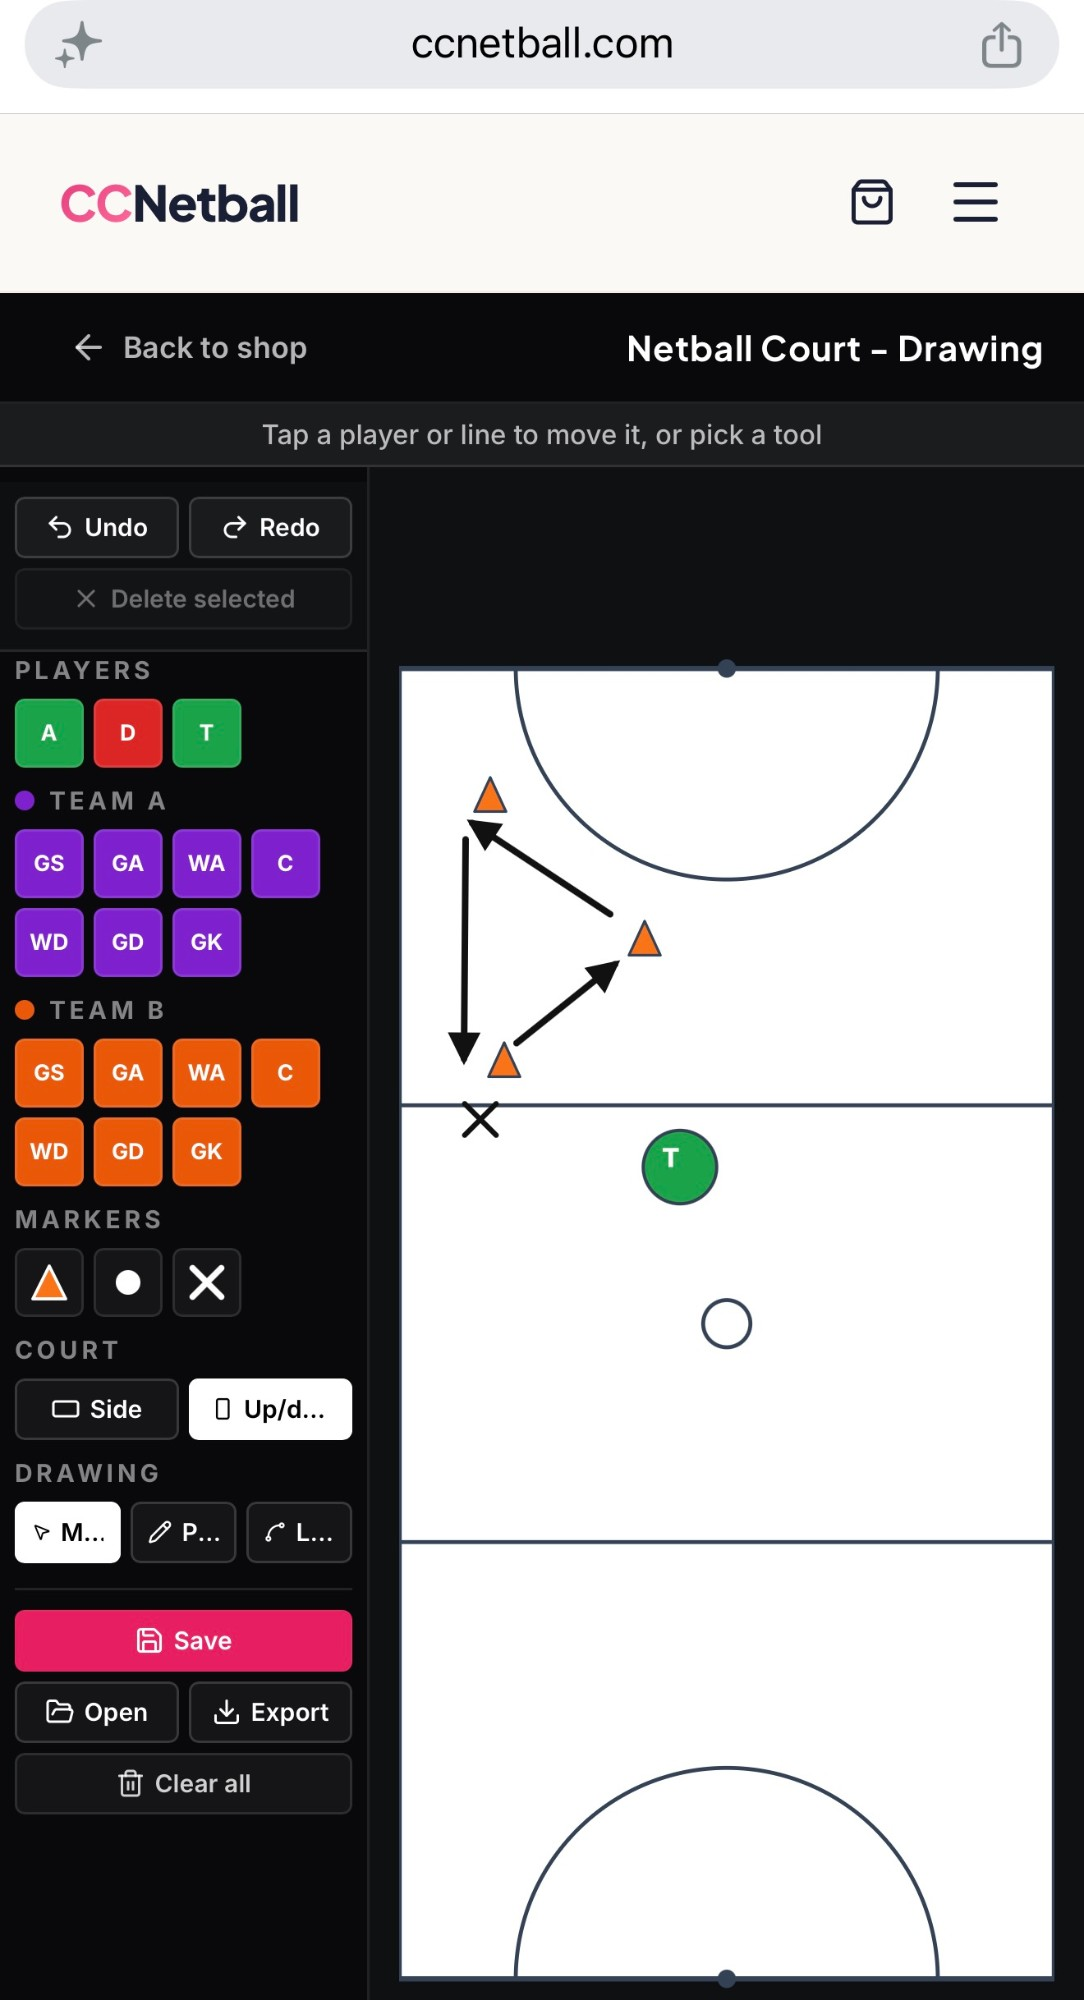
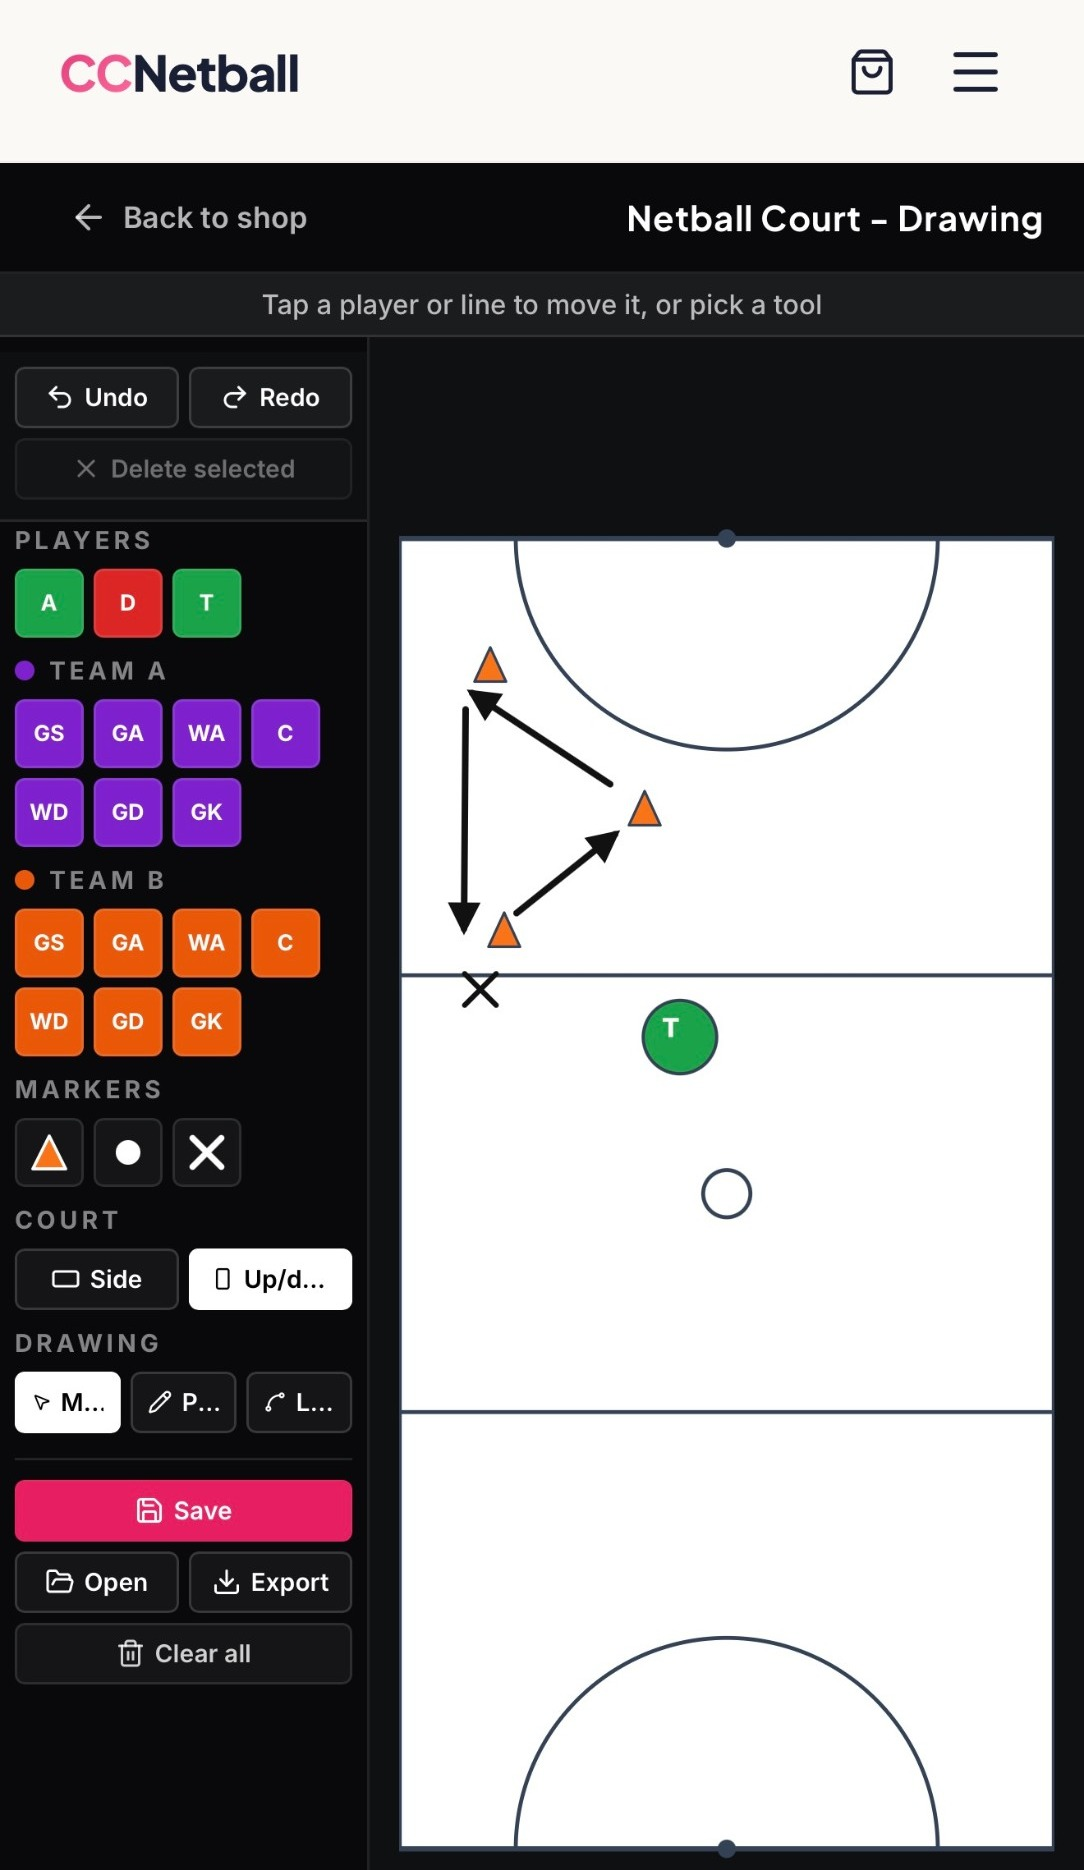
Shop hero: tighten layout, crop Safari bar off stills, reshuffle buy / price
Per Caitlyn:

1. Crop the Safari URL bar ("ccnetball.com") off every demo screenshot
   while keeping the cream CCNetball logo header. Images are now
   1084x1870 (from 1084x2000). Carousel aspect-ratio updated to match.

2. Hero left column reordered:
   - Icon + "Now Live" pill
   - "Designed by Caitlyn Strachan · Elite accredited netball coach"
   - Big display title
   - Buy now button (prominent raspberry pill, moved UP right under
     the title — users can decide to buy before reading another word)
   - Short description
   - Highlight chips
   - Price at the BOTTOM of the column, big and bold with an AUD label

3. Tighter column gap (gap-14 → gap-10) so content sits right next to
   the demo carousel instead of floating away in whitespace.

The Buy button anchor-scrolls to the #pricing sidebar as before.

diff --git a/src/app/shop/[slug]/page.tsx b/src/app/shop/[slug]/page.tsx
@@ -126,7 +126,7 @@ export default async function ShopProductPage({
             </Link>
           </Reveal>
 
-          <div className="mt-10 grid gap-12 lg:grid-cols-12 lg:gap-14">
+          <div className="mt-10 grid gap-10 lg:grid-cols-12 lg:gap-10">
             <div className="flex flex-col lg:col-span-7">
               <Reveal delay={0.05}>
                 <div className="flex flex-wrap items-center gap-3">
@@ -149,20 +149,36 @@ export default async function ShopProductPage({
               </Reveal>
 
               <Reveal delay={0.15}>
-                <h1 className="mt-3 font-display text-[2.75rem] font-extrabold leading-[1.02] tracking-tight md:text-6xl">
+                <h1 className="mt-3 font-display text-[2.5rem] font-extrabold leading-[1.02] tracking-tight md:text-[3.5rem]">
                   {product.name}
                 </h1>
               </Reveal>
 
               <Reveal delay={0.2}>
-                <p className="mt-6 max-w-2xl text-lg leading-relaxed text-muted-foreground md:text-xl">
+                <a
+                  href="#pricing"
+                  className="group mt-7 inline-flex w-fit items-center justify-center gap-2 rounded-full bg-primary px-6 py-3.5 text-sm font-semibold text-primary-foreground shadow-lg shadow-primary/25 transition hover:scale-[1.02] hover:shadow-primary/35"
+                >
+                  {product.slug === "court-planner" && courtPlannerAccess
+                    ? "Launch now"
+                    : product.slug === "court-planner"
+                      ? "Buy now"
+                      : product.launchUrl
+                        ? "Launch now"
+                        : "Buy now"}
+                  <ArrowRight className="size-4 transition group-hover:translate-x-0.5" />
+                </a>
+              </Reveal>
+
+              <Reveal delay={0.25}>
+                <p className="mt-7 max-w-2xl text-base leading-relaxed text-muted-foreground md:text-lg">
                   {product.short}
                 </p>
               </Reveal>
 
               {product.highlights.length > 0 && (
-                <Reveal delay={0.25}>
-                  <div className="mt-7 flex flex-wrap gap-2">
+                <Reveal delay={0.3}>
+                  <div className="mt-6 flex flex-wrap gap-2">
                     {product.highlights.slice(0, 4).map((h) => (
                       <span
                         key={h}
@@ -175,39 +191,26 @@ export default async function ShopProductPage({
                 </Reveal>
               )}
 
-              <Reveal delay={0.3}>
-                <div className="mt-9 flex flex-wrap items-center gap-5">
-                  {product.price && (
-                    <div>
-                      <p className="font-display text-3xl font-extrabold leading-none text-foreground md:text-4xl">
-                        {product.price.replace(" AUD", "")}
-                      </p>
-                      <p className="mt-1 text-[10px] font-bold uppercase tracking-[0.2em] text-muted-foreground">
-                        AUD · one payment
-                      </p>
-                    </div>
-                  )}
-                  <a
-                    href="#pricing"
-                    className="inline-flex items-center justify-center gap-2 rounded-full bg-primary px-6 py-3.5 text-sm font-semibold text-primary-foreground shadow-lg shadow-primary/25 transition hover:scale-[1.02] hover:shadow-primary/35"
-                  >
-                    {product.slug === "court-planner" &&
-                    courtPlannerAccess
-                      ? "Launch now"
-                      : product.slug === "court-planner"
-                        ? "Buy annual access"
-                        : product.launchUrl
-                          ? "Launch now"
-                          : "See pricing"}
-                    <ArrowRight className="size-4" />
-                  </a>
-                </div>
-              </Reveal>
+              {product.price && (
+                <Reveal delay={0.35}>
+                  <div className="mt-auto pt-10">
+                    <p className="text-[10px] font-bold uppercase tracking-[0.2em] text-muted-foreground">
+                      Price
+                    </p>
+                    <p className="mt-2 font-display text-4xl font-extrabold leading-none text-foreground md:text-5xl">
+                      {product.price.replace(" AUD", "")}
+                    </p>
+                    <p className="mt-2 text-[11px] font-semibold uppercase tracking-[0.18em] text-muted-foreground">
+                      AUD
+                    </p>
+                  </div>
+                </Reveal>
+              )}
             </div>
 
             {product.previewImages && product.previewImages.length > 0 && (
               <Reveal delay={0.1} className="lg:col-span-5">
-                <div className="mx-auto max-w-[320px] lg:max-w-none">
+                <div className="mx-auto max-w-[340px] lg:max-w-none">
                   <ShopPreviewCarousel slides={product.previewImages} />
                 </div>
               </Reveal>

diff --git a/src/components/shop-preview-carousel.tsx b/src/components/shop-preview-carousel.tsx
@@ -78,7 +78,7 @@ export function ShopPreviewCarousel({ slides }: { slides: Slide[] }) {
       />
 
       <div
-        className="relative aspect-[1084/2000] w-full overflow-hidden rounded-2xl ring-1 ring-border/60 shadow-2xl shadow-primary/20"
+        className="relative aspect-[1084/1870] w-full overflow-hidden rounded-2xl ring-1 ring-border/60 shadow-2xl shadow-primary/20"
         onPointerDown={onPointerDown}
         onPointerUp={onPointerUp}
       >
